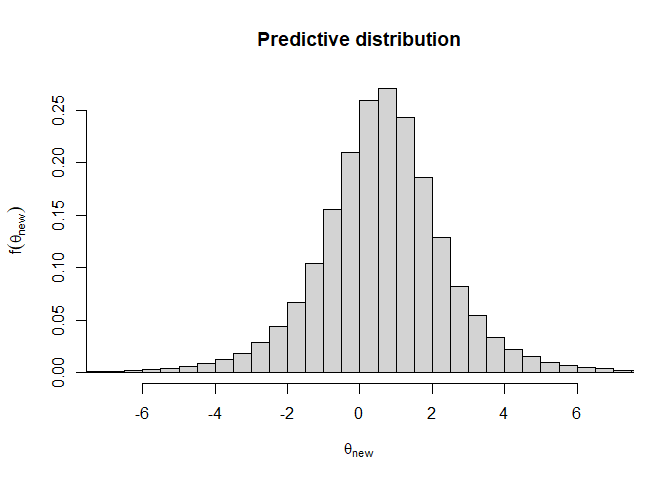
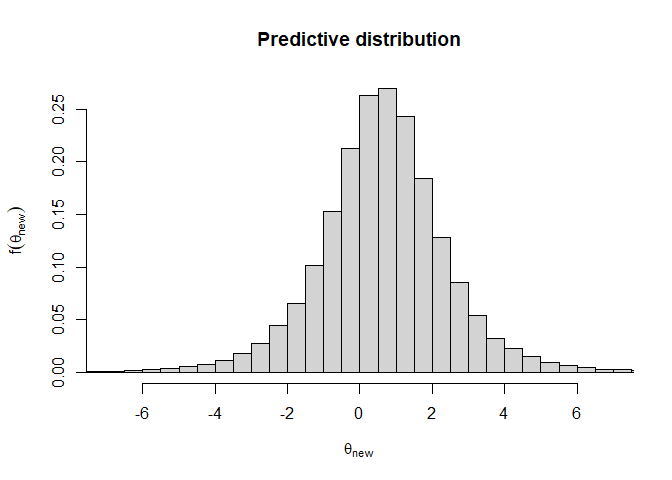
docu

diff --git a/README.md b/README.md
@@ -36,7 +36,7 @@ You can install the development version of `metaprediction` from
 [GitHub](https://github.com/) with:
 
 ``` r
-# install.packages("pak")
+# install.packages("remotes")
 remotes::install_github("davidkronthaler-dk/metaprediction")
 # or
 # install.packages("devtools")
@@ -72,27 +72,27 @@ pd <- PredDist(es = es, se = se, method = "FullCD")
 #> Method: FullCD 
 #> Number of Monte Carlo samples: 100,000 
 #> 
-#> 95% prediction interval from -3.26 to 4.482 
+#> 95% prediction interval from -3.24 to 4.528 
 #> 
 #> Summary of predictive distribution (PD):
 #>               2.5%  25.0% Median  Mean 75.0% 97.5%
-#> PD theta_new -3.26 -0.384  0.632 0.629 1.647 4.482
+#> PD theta_new -3.24 -0.373   0.63 0.633 1.644 4.528
 #> 
 #> Confidence calculations:
 #> Confidence of `theta_new` lying between 0 and Inf:
-#> 0.66616
+#> 0.66746
 #> Confidence of `theta_new` lying between -Inf and 0:
-#> 0.33384
+#> 0.33254
 #> 
 #> Summary of confidence distributions (CD):
 #>           2.5% 25.0% Median  Mean 75.0%  97.5%
-#> CD mu   -0.911 0.175  0.638 0.632 1.093  2.152
-#> CD tau2  0.367 1.023  1.822 3.239 3.417 14.977
+#> CD mu   -0.899 0.178  0.640 0.635 1.095  2.166
+#> CD tau2  0.365 1.021  1.812 3.246 3.416 14.554
 
 # 95% prediction interval
 pd$PI
 #>      2.5%     97.5% 
-#> -3.260120  4.481634
+#> -3.239617  4.528168
 
 # Plot the predictive distribution
 plot(pd, param = "theta_new", breaks = 200, xlim = c(-7, 7))
@@ -118,17 +118,17 @@ me <- remaeffect(es = es, se = se)
 #> Number of studies: 5 
 #> Number of Monte Carlo samples: 100,000 
 #> 
-#> Average effect: 0.635 
-#> 95% Confidence interval from -0.890 to 2.133 
+#> Average effect: 0.633 
+#> 95% Confidence interval from -0.902 to 2.143 
 #> 
 #> Summary of confidence distribution of the average effect:
 #>        2.5%     25.0%    Median      Mean    75.0%    97.5%
-#>  -0.8901761 0.1794269 0.6429719 0.6354832 1.096782 2.133462
+#>  -0.9024812 0.1778291 0.6416051 0.6333235 1.091761 2.143147
 me$estimate
-#> [1] 0.6354832
+#> [1] 0.6333235
 me$CI
 #>       2.5%      97.5% 
-#> -0.8901761  2.1334618
+#> -0.9024812  2.1431473
 
 # Further information: 'help(remaeffect)'
 ```
